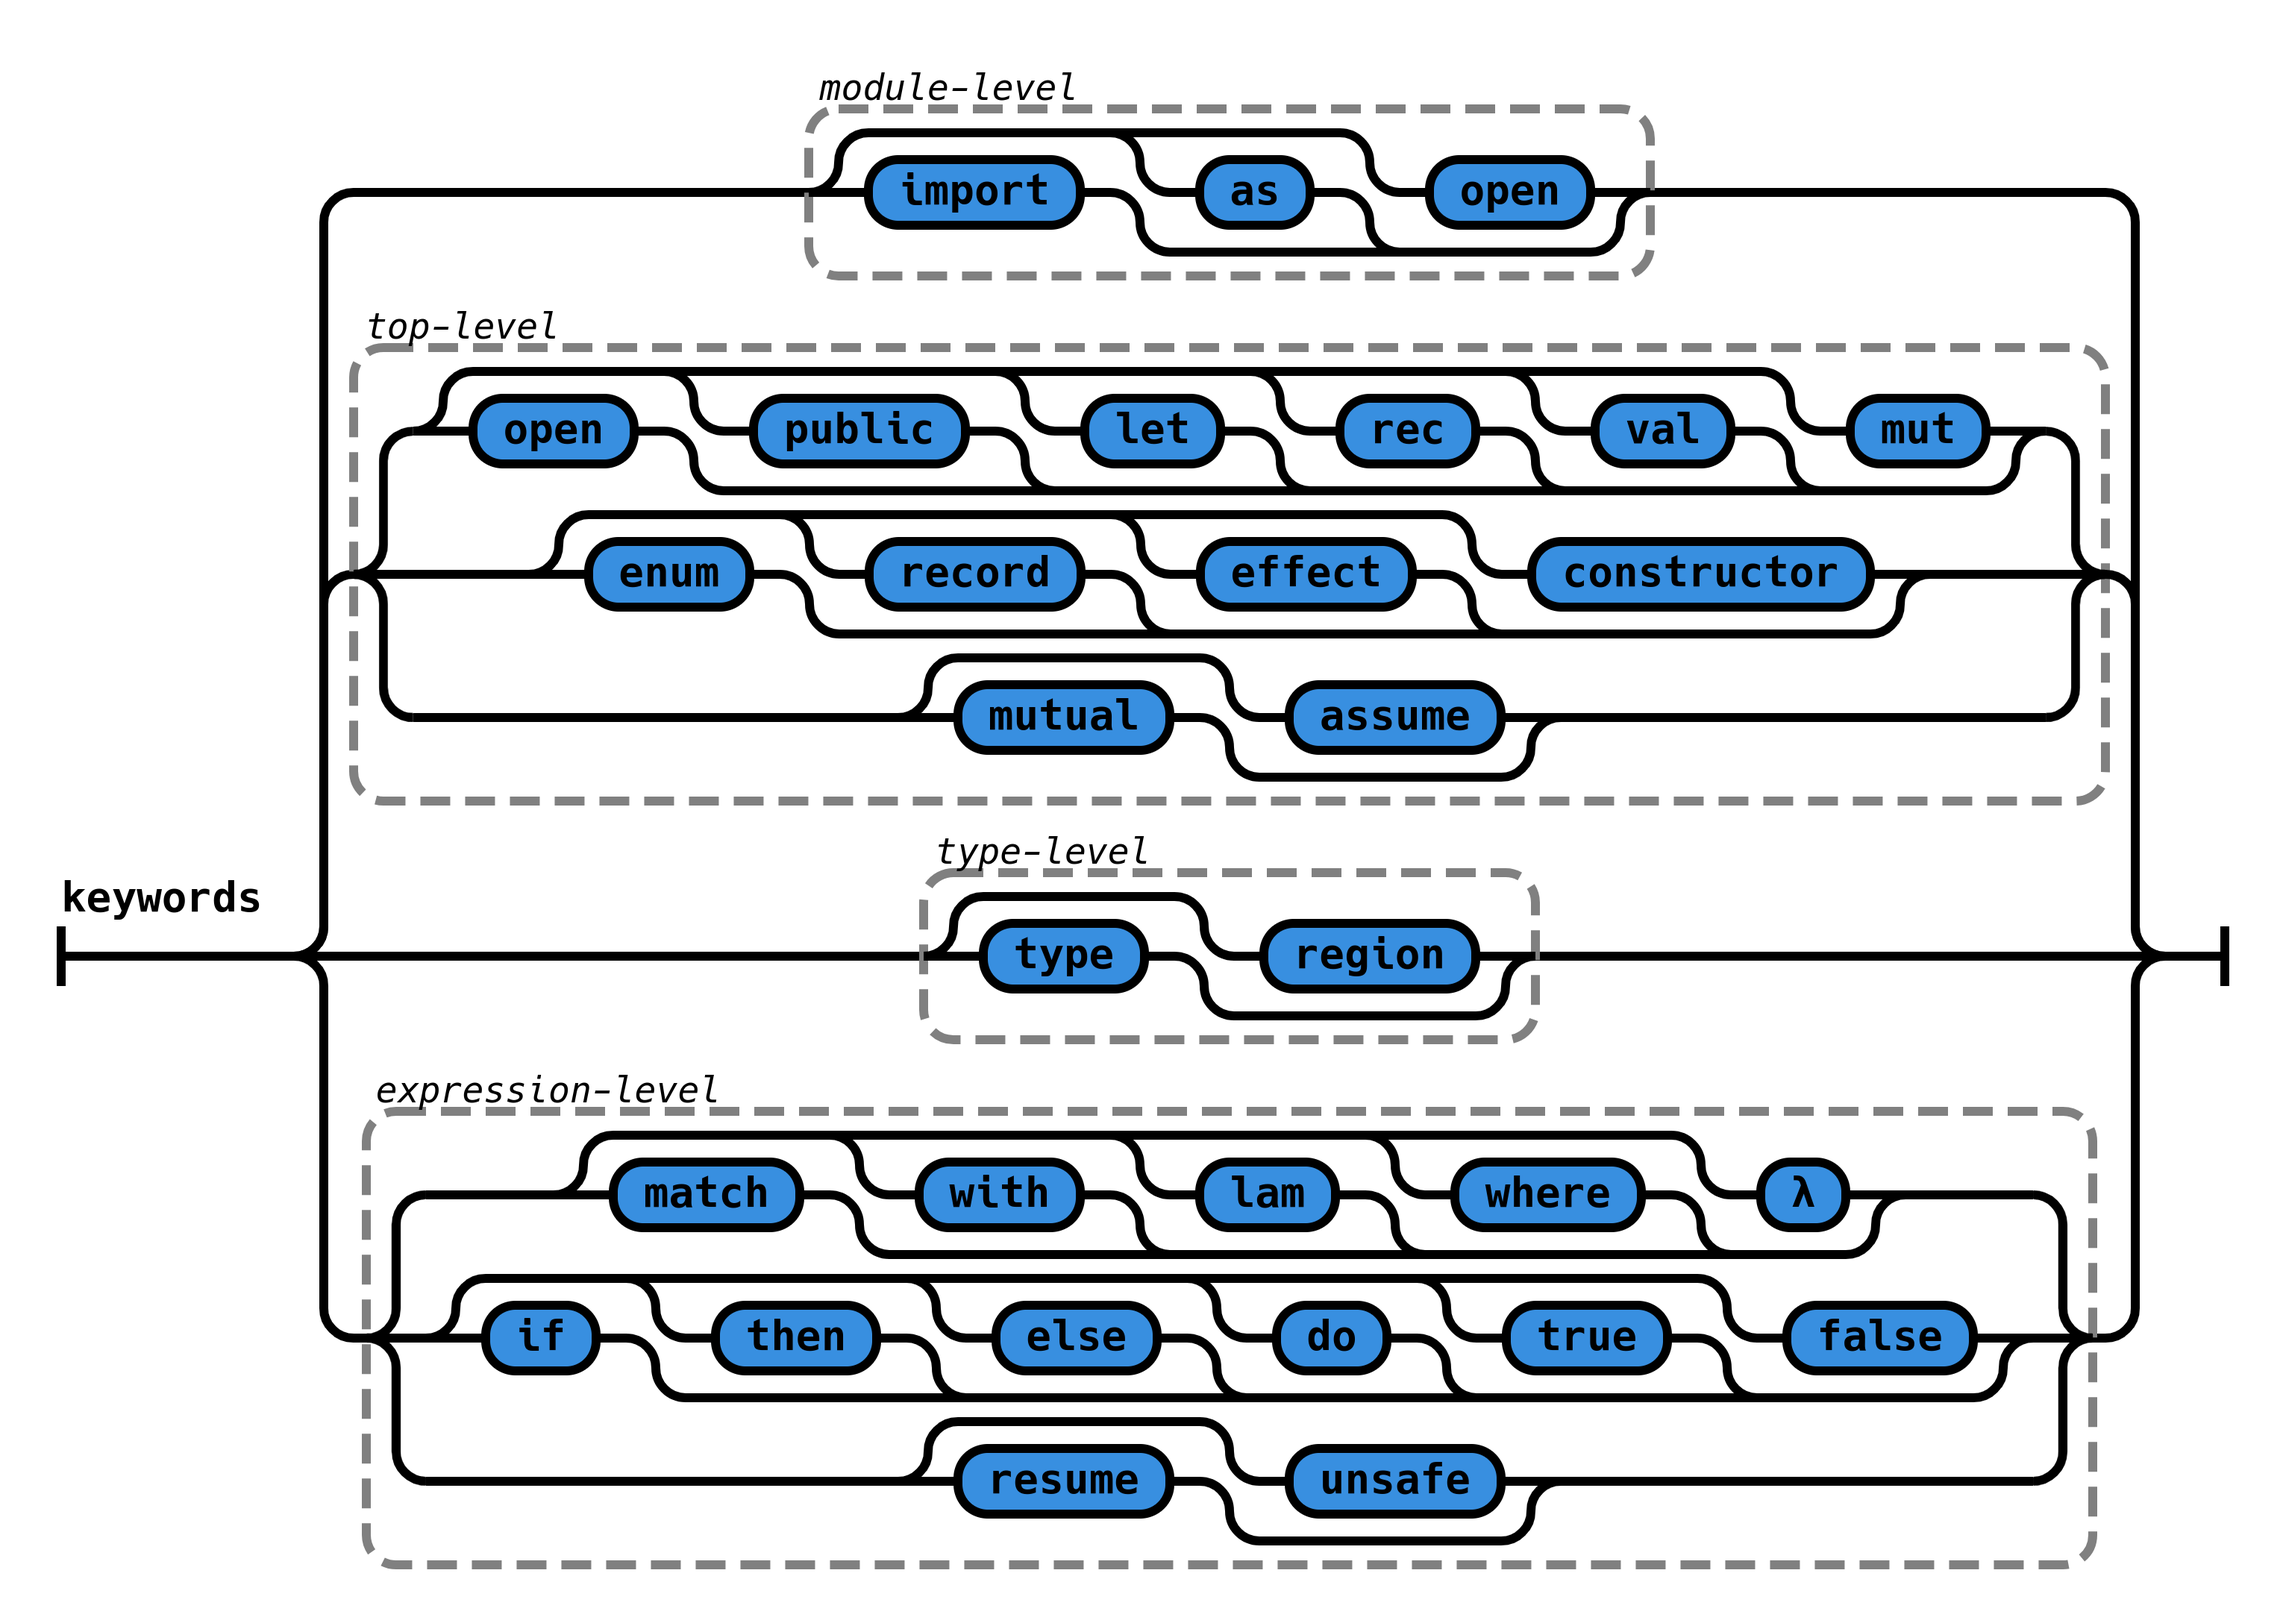
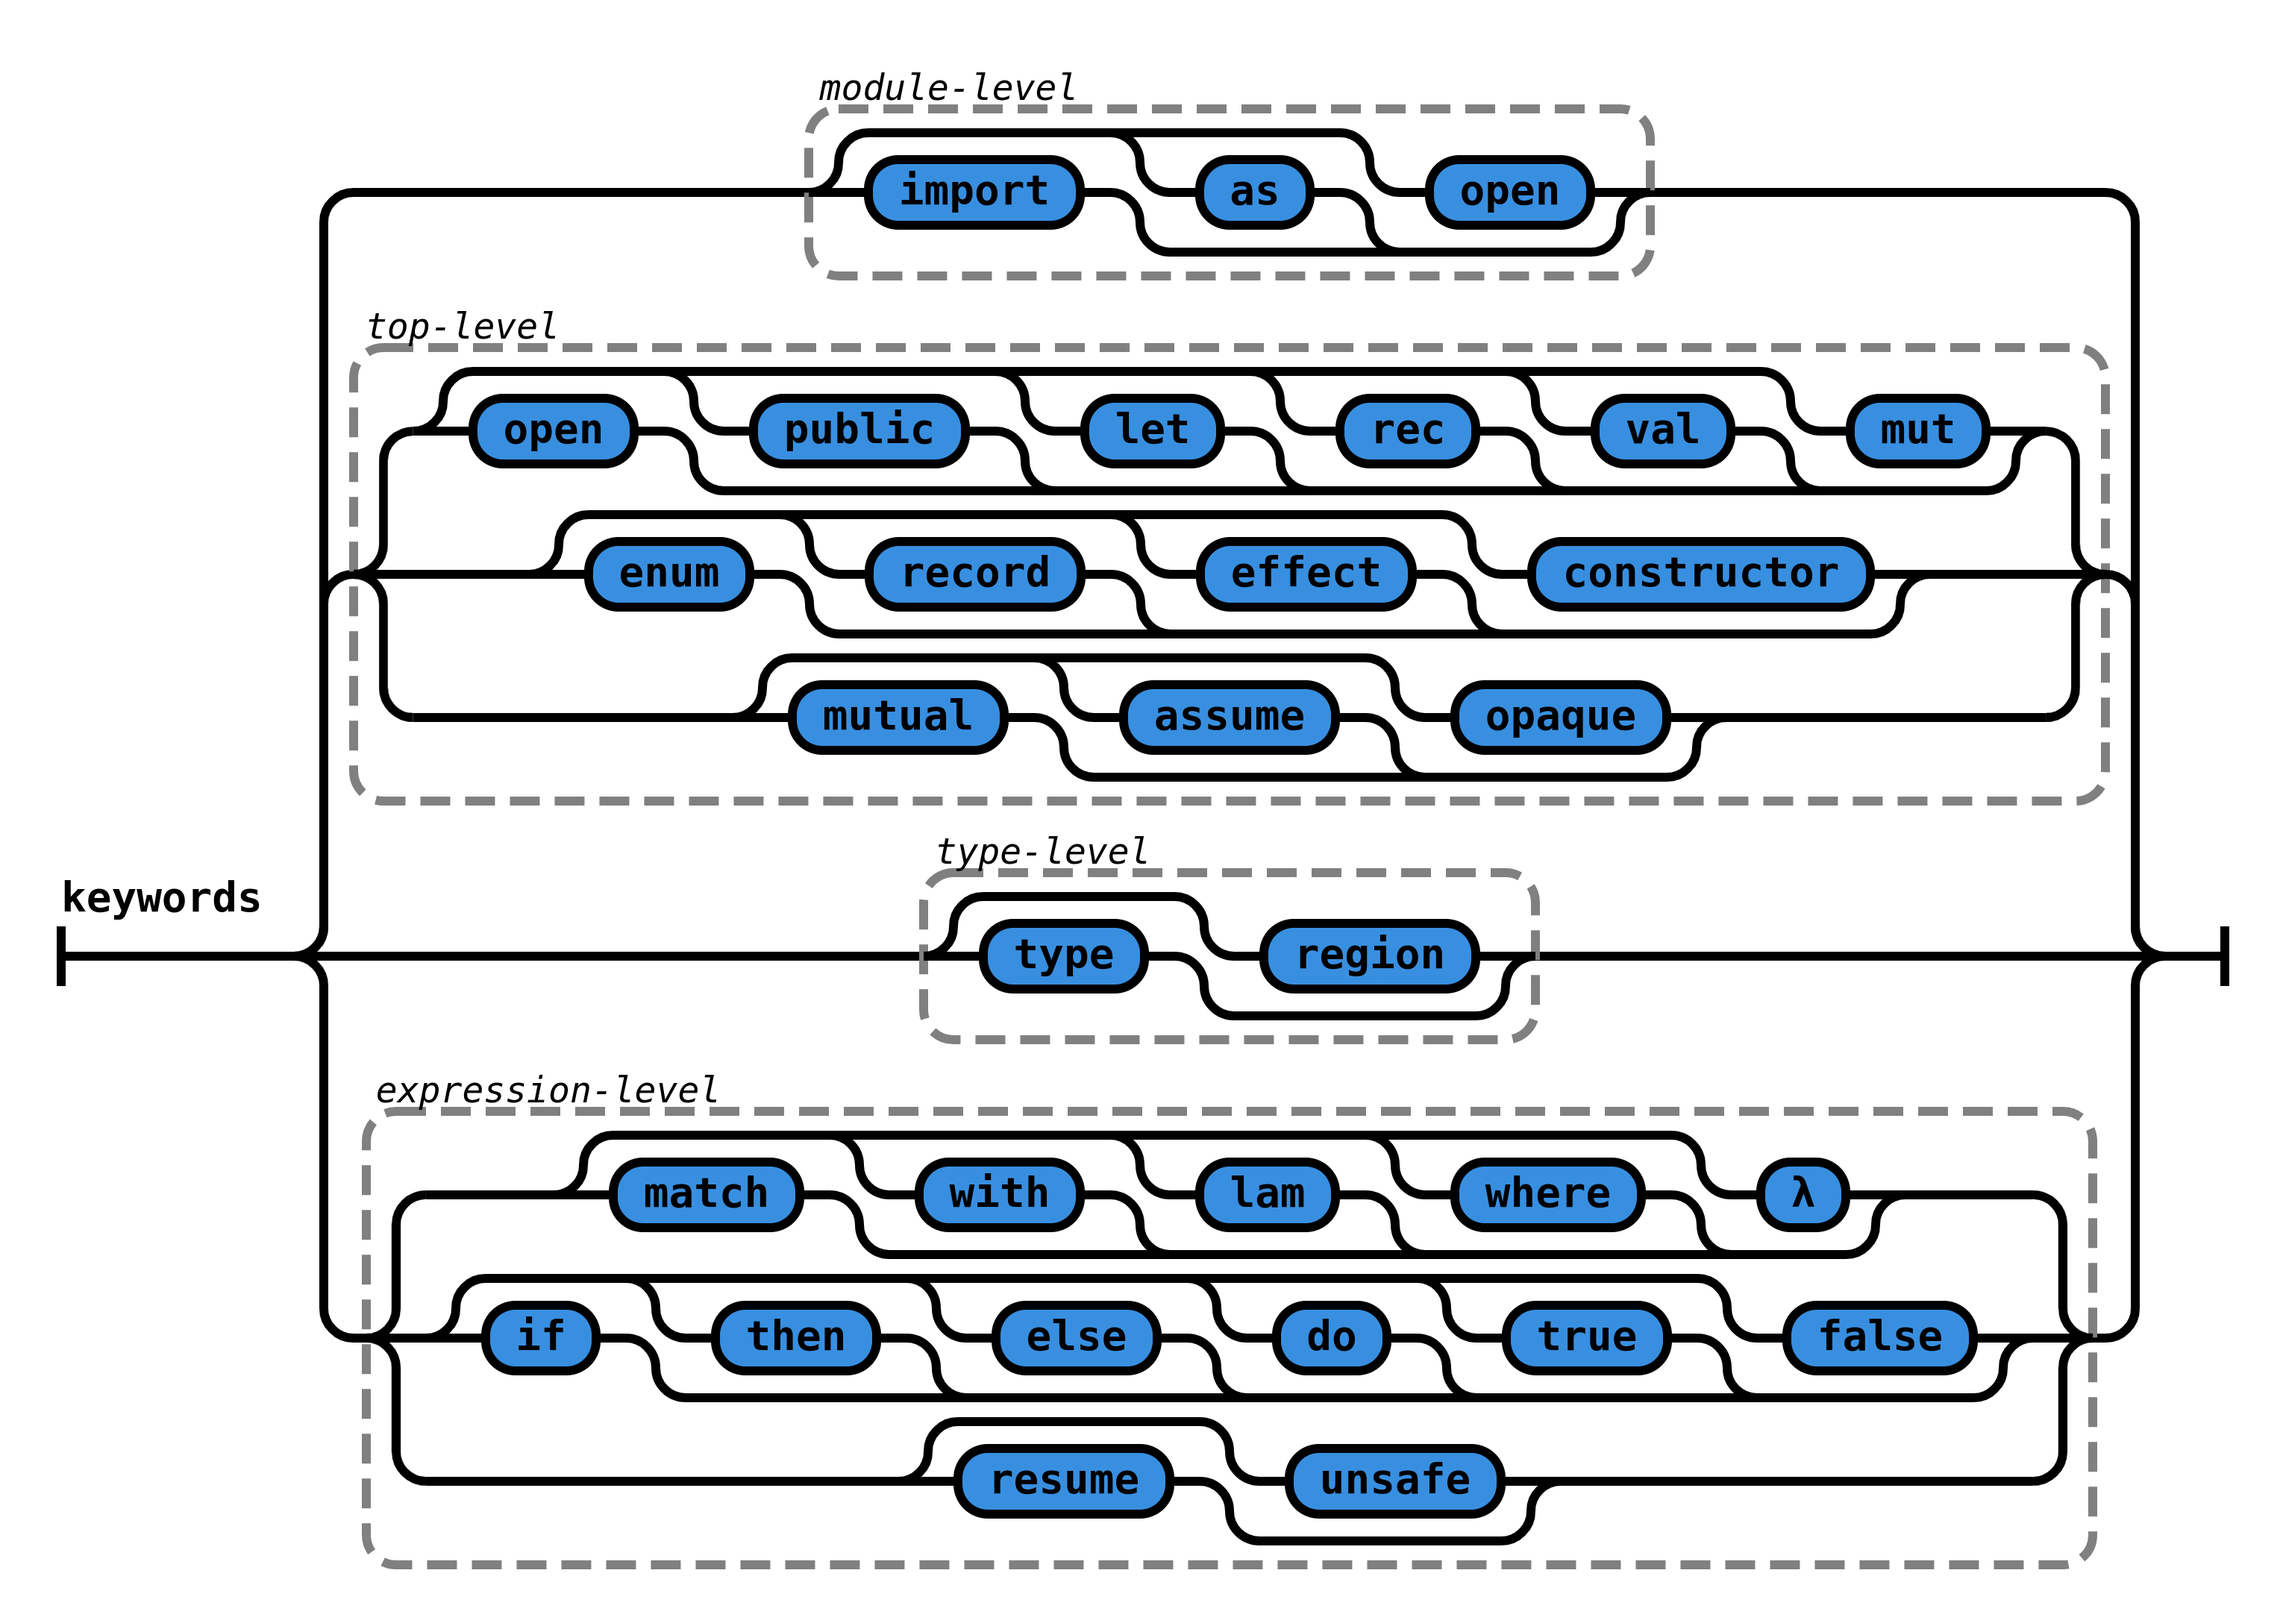
add 'opaque' to the list of keywords

Changed region(s): [[0.3105, 0.375, 0.7451, 0.5]]

diff --git a/railroad-diagrams.py b/railroad-diagrams.py
@@ -483,7 +483,7 @@ def zilch_keywords():
                          Terminal('rec'), Terminal('val'), Terminal('mut')),
         HorizontalChoice(Terminal('enum'), Terminal('record'),
                          Terminal('effect'), Terminal('constructor')),
-        HorizontalChoice(Terminal('mutual'), Terminal('assume'))),
+        HorizontalChoice(Terminal('mutual'), Terminal('assume'), Terminal('opaque'))),
       'top-level'),
     Group(HorizontalChoice(Terminal('type'), Terminal('region')),
           'type-level'),
@@ -970,4 +970,4 @@ def zilch_mult_product_elim():
   return mk_diagram2('mult-product-elim', inner)
 
 
-zilch_mult_product_elim().writeSvg(sys.stdout.write)
+zilch_keywords().writeSvg(sys.stdout.write)
